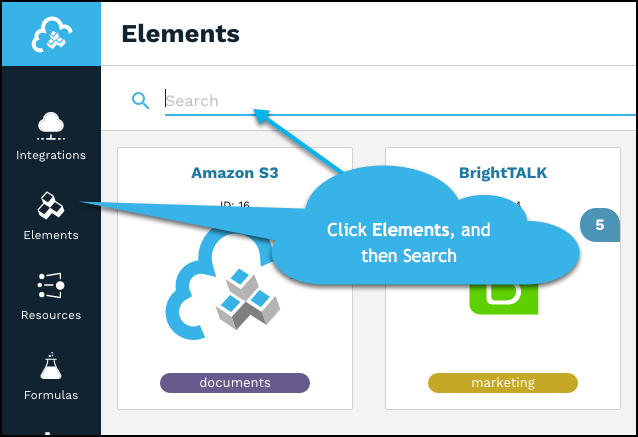
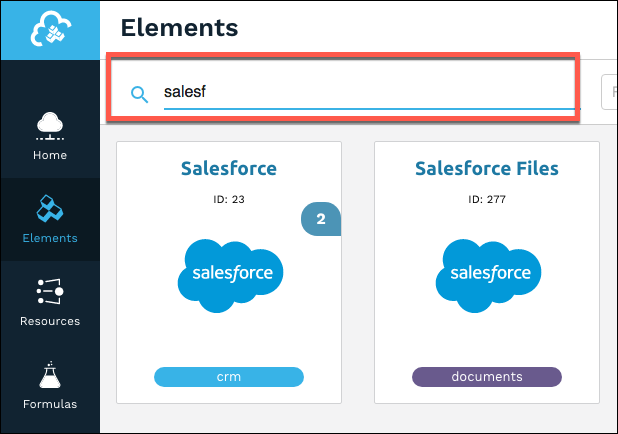
Initial updates to concur

diff --git a/docs/elements/concur/concur-create-instance.md b/docs/elements/concur/concur-create-instance.md
@@ -30,12 +30,27 @@ __On this page__
 Use the {{site.console}} to authenticate with {{page.heading}} and create an element instance.
 
 1. Sign in, and then search for the element in our Elements Catalog.
-![Search](img/Element-Search-Woo.png)
-3. Hover over the element card, and then click __Create Instance__.
-![Create Instance](img/Create_Instance.gif)
-5. Complete the Instance Configuration parameters. See [Parameters](#parameters) for information about each parameter.
-6. Click __Create Instance__.
-7. Take a look at the documentation for the element resources now available to you.
+
+    | Latest UI | Earlier UI  |
+    | :------------- | :------------- |
+    |  ![Search](../img/Element-Search2.png)  |  ![Search](../img/Element-Search.png)  |
+
+3. Create an element instance.
+
+    | Latest UI | Earlier UI  |
+    | :------------- | :------------- |
+    | Hover over the element card, and then click __Create Instance__.</br> ![Create Instance](../img/Create-Instance.gif)  | Click __Add Instance__.</br> ![Search](../img/Add-Instance.png)  |
+
+5. Enter a name for the element instance.
+6. Complete the Instance Configuration parameters. See [Parameters](#parameters) for information about each parameter.
+7. Click __Create Instance__ (latest UI) or __Next__ (earlier UI).
+8. Optionally add tags in the earlier UI:
+     1. On the Tag It page, enter any tags that might help further define the instance.
+      * To add more than one tag, click __Add__ after each tag.
+      ![Add tag](../img/Add-Tag.png)
+     1. Click __Done__.
+8. Provide your Concur credentials, and then allow the connection.
+8. Take a look at the documentation for the element resources now available to you.
 
 ## Authenticate Through API
 
@@ -88,19 +103,16 @@ API parameters are in `code formatting`.
 | :------------- | :------------- | :------------- |
 | 'key' | The element key.<br>woocommercerest  | string  |
 |  Name</br>`name` |  The name for the element instance created during authentication.   | Body  |
-| The Store URL</br>`store.url` | The url of your Concur Storefront. | string |
 | OAuth API Key</br>`oauth.api.key` | The Consumer Key from Concur. |  string |
 | OAuth API Secret</br>`oauth.api.secret` |  The Consumer Secret from Concur.| string |
-| Filter null values from the response </br>`filter.response.nulls` | *Optional*. Determines if null values in the response JSON should be filtered from the response. Yes or `true` indicates that Cloud Elements will filter null values. </br>Default: `true`  | boolean |
-| Events Enabled </br>`event.notification.enabled` | *Optional*. Identifies that events are enabled for the element instance.</br>Default: `false`  | boolean |
-| Event Type </br>`event.vendor.type` | *Optional*. identifies the type of events enabled for the instance, either `webhook` or `polling`. | string |
-| Event Notification Callback URL</br>`event.notification.callback.url` |  *For webhooks and polling.*</br>The URL that you supplied to the provider when registering your app, state – any custom value that you want passed to the callback handler listening at the provided callback URL. | string |
-| Event Notification Signature Key </br>`event.notification.signature.key` | *For webhooks and polling.*</br>*Optional*</br>A user-defined key for added security to show that events have not been tampered with. | string |
-| Event poller refresh interval (mins)</br>`event.poller.refresh_interval`  | *For polling only.*</br>A number in minutes to identify how often the poller should check for changes. |  number|
-| customers</br>`"event.poller.configuration": "{\"customers\"...}"` (see [Events](events.html))| *For polling only.*</br>*Optional*</br>The Concur `customers` resource available for polling. |JSON object |
-| discounts</br>`"event.poller.configuration": "{\"discounts\"...}"` (see [Events](events.html)) | *For polling only.*</br>*Optional*</br>The Concur `discounts` resource available for polling.  |JSON object |
-| orders</br>`"event.poller.configuration": "{\"orders\"...}"` (see [Events](events.html)) | *For polling only.*</br>*Optional*</br>The Concur `orders` resource available for polling.  |JSON object |
-| products</br>`"event.poller.configuration": "{\"products\"...}"` (see [Events](events.html)) | *For polling only.*</br>*Optional*</br>The Concur `products` resource available for polling.  |JSON object |
+| Filter null values from the response </br>`filter.response.nulls` | *Optional*. Determines if null values in the response JSON should be filtered from the response. Yes or `true` indicates that Cloud Elements will filter null values. </br>Default: `true`.  | boolean |
+| Events Enabled </br>`event.notification.enabled` | *Optional*. Identifies that events are enabled for the element instance.</br>Default: `false`.  | boolean |
+| Event Type </br>`event.vendor.type` | *Optional*. identifies the type of events enabled for the instance. The {{page.heading}} element supports only `polling`. | string |
+| Event Notification Callback URL</br>`event.notification.callback.url` |  The URL that you supplied to the provider when registering your app, state – any custom value that you want passed to the callback handler listening at the provided callback URL. | string |
+| Event Notification Signature Key </br>`event.notification.signature.key` | *Optional*. A user-defined key for added security to show that events have not been tampered with. | string |
+| Event poller refresh interval (mins)</br>`event.poller.refresh_interval`  | A number in minutes to identify how often the poller should check for changes. |  number|
+| Configure Polling </br>`"event.poller.configuration"` |  |  |
+| reports</br>`"event.poller.configuration": "{"reports"...}"` (see [Events](events.html))| *Optional*</br>The Concur `reports`. resource available for polling. |JSON object |
 | tags | *Optional*. User-defined tags to further identify the instance. | string |
 
 ## Sample Request
